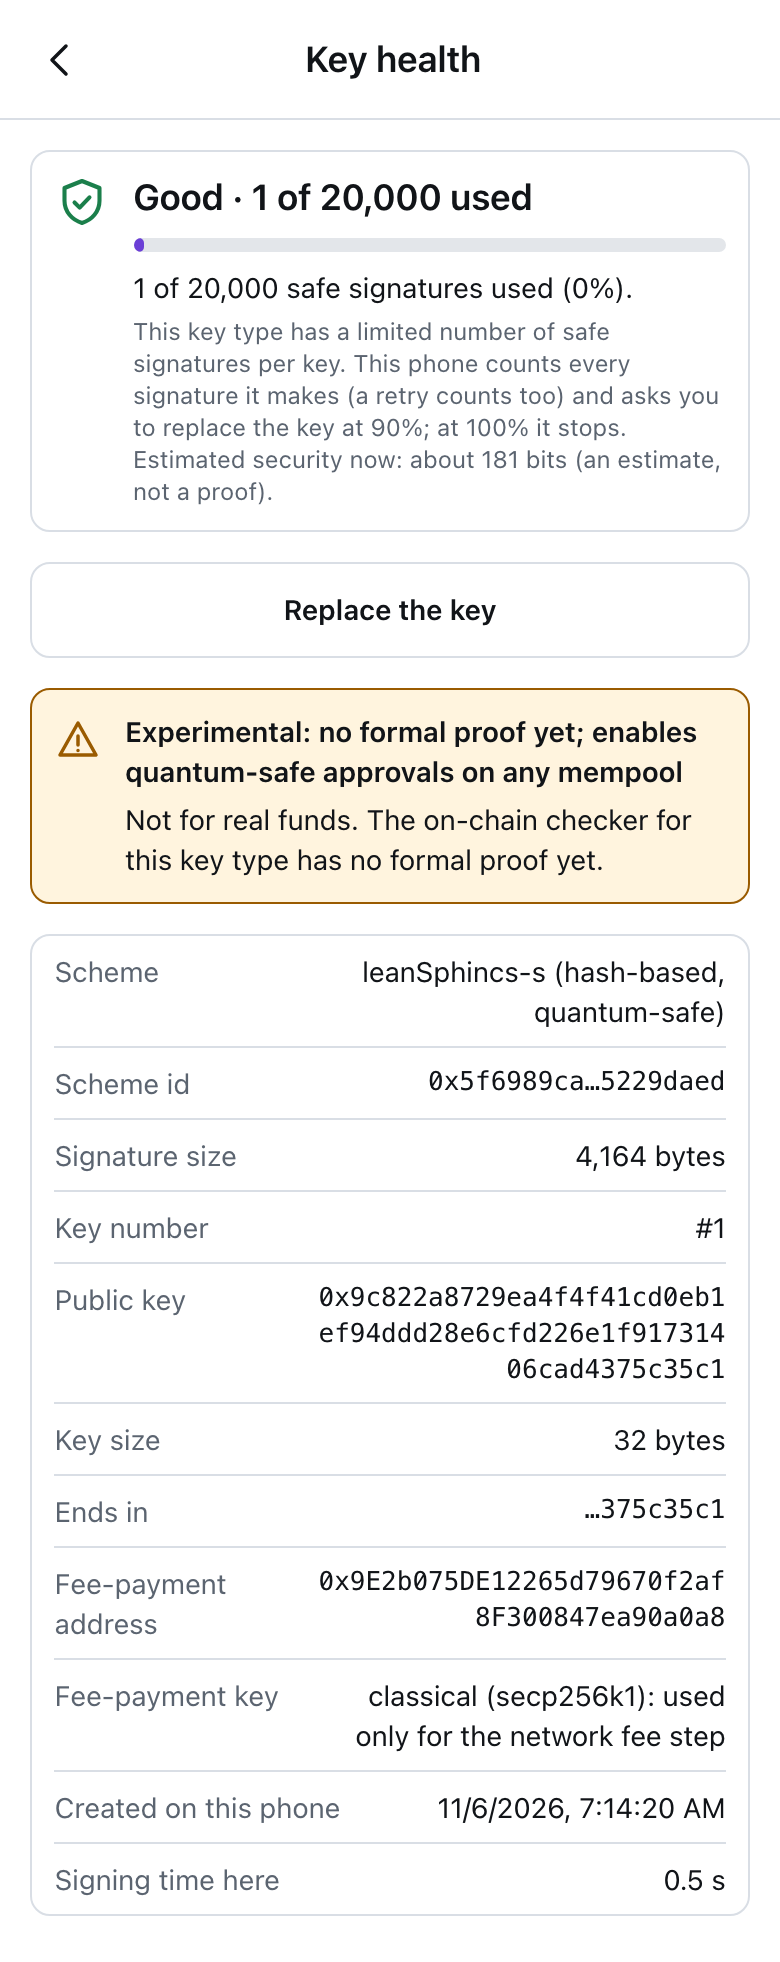
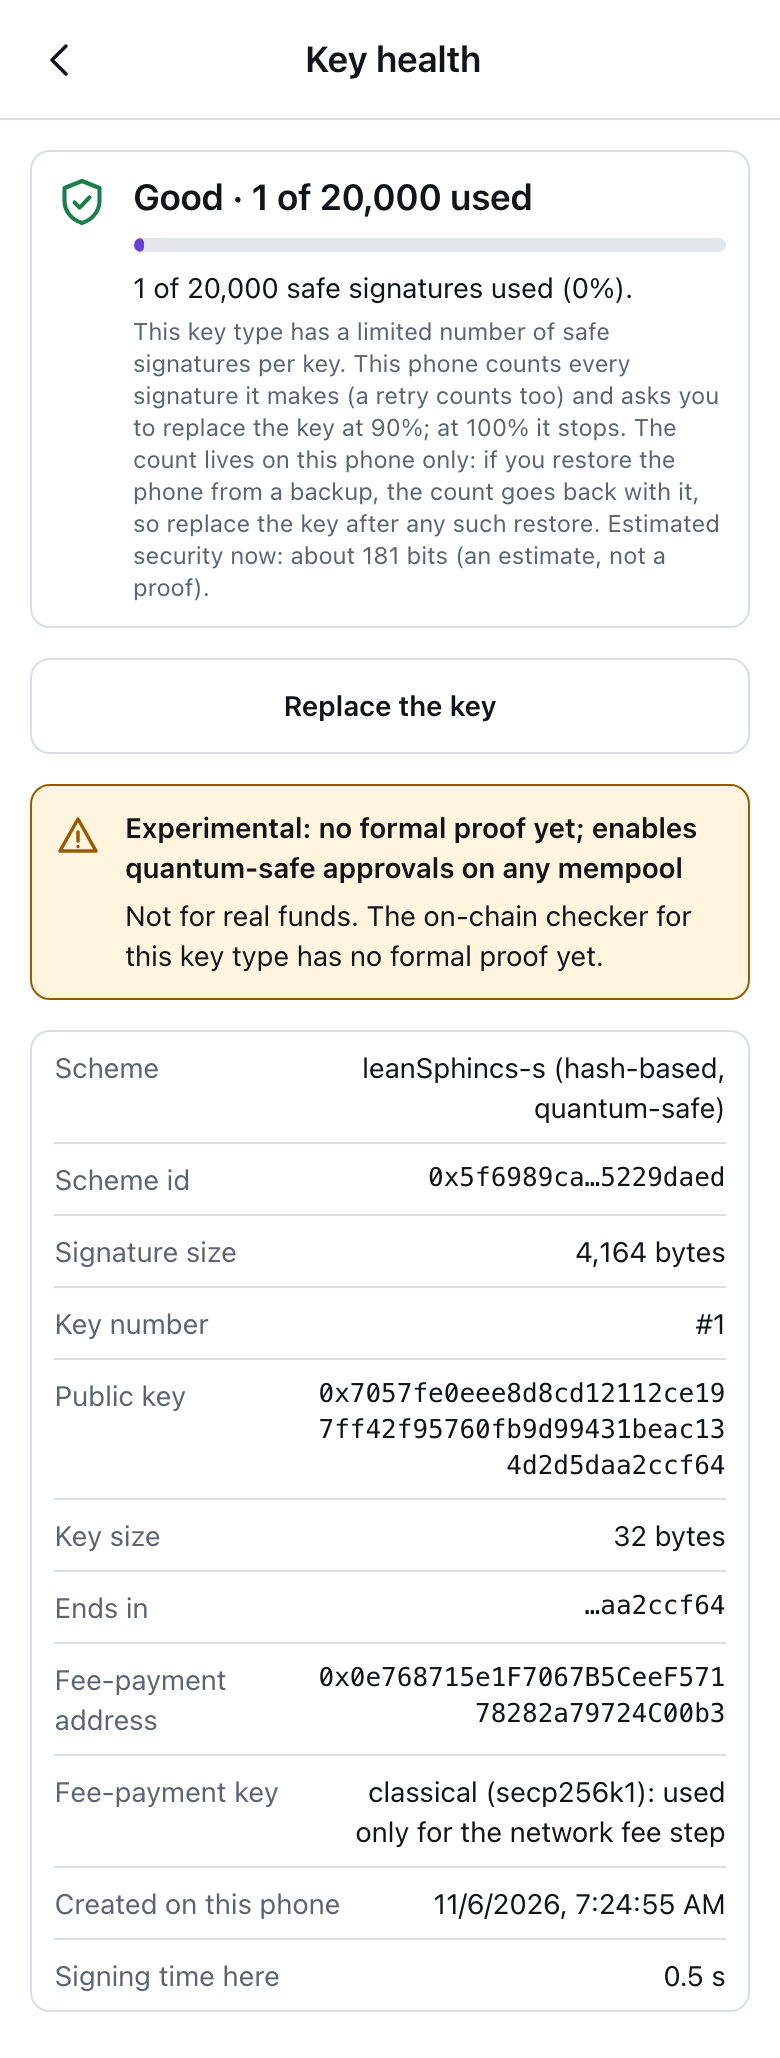
fix(companion): review follow-ups: rotation switch notice, honest update and counter copy, e2e needle
- Approve sheet announces, before the passphrase, that a request for the prepared key #n+1 switches
  this phone over and retires key #n (switch-notice; asserted in the restore e2e).
- Update sheet says what the SHA-256 check proves (a complete, unmixed download against the
  fingerprints the build carries) and what it cannot (a genuine build from a compromised origin).
- Key health and usage.ts state the counter's limit: a restore of the phone's storage from a backup
  rolls the sealed count back undetectably (soft budget; replace the key after such a restore).
- keys.ts: exact statement of what the hardened Recovery branch protects (the Vault's 0/0 is not
  hardened; no xpub is ever exported).
- e2e activity test: a bare "250" also matched the clear signMs/timestamps; use the log's phrases.

diff --git a/apps/companion/e2e/followups.e2e.ts b/apps/companion/e2e/followups.e2e.ts
@@ -131,7 +131,13 @@ test("leanSphincs-s restore: count unknown → approvals refused → replace the
   await page.goto("./");
   const built = H.leanFreeze(k2.pk, "0a1b2c3d-4e5f-4a6b-8c7d-8e9f0a1b2c3d");
   await pasteRequest(page, H.requestText(built.cbor));
-  await approveWith(page, H.PASSPHRASE);
+  await page.getByTestId("approve").click();
+  // The switch is announced before the passphrase is asked, not only after the signature.
+  await expect(page.getByTestId("switch-notice")).toContainText("new key #2");
+  await expect(page.getByTestId("switch-notice")).toContainText("key #1 will no longer approve");
+  await page.getByTestId("approve-pass").fill(H.PASSPHRASE);
+  await page.getByTestId("approve-sign").click();
+  await expect(page.getByTestId("signed-banner")).toBeVisible({ timeout: 60_000 });
   await expect(page.getByTestId("signed-banner")).toContainText("now uses your new Vault key");
   const r = await H.checkSignature(await page.getByTestId("ur-text").inputValue(), built, k2.pk);
   expect(r.witnessOk).toBe(true);
@@ -197,7 +203,8 @@ test("activity log: encrypted at rest, readable with the passphrase", async ({ p
         req.onerror = () => reject(req.error);
       }),
   );
-  for (const needle of ["USDC", "Alice", "daily limit", "250"]) expect(dump).not.toContain(needle);
+  // (Not a bare "250": timestamps and the measured signing time are stored in clear and can contain it.)
+  for (const needle of ["USDC", "Alice", "daily limit", "Send 250", "250 USDC"]) expect(dump).not.toContain(needle);
 
   await page.getByTestId("nav-settings").click();
   await expect(page.getByTestId("activity")).toContainText("Activity on this phone (2)");

diff --git a/apps/companion/src/core/keys.ts b/apps/companion/src/core/keys.ts
@@ -11,9 +11,11 @@ import { getAddress, type Address, type Hex } from "viem";
  *    and role, in WASM).
  *  - Path-B payer (fee-payment) key: BIP-32 `m/44'/60'/8141'/0/0` of the same seed (a separate branch).
  *  - Recovery payer key (the Recovery signer's Path-B fee key, so a Recovery key can act on the public mempool):
- *    BIP-32 `m/44'/60'/8141'/1'/0'` of the *Recovery* seed. A different, hardened branch from the Vault's, so the two
- *    fee keys are independent even if one mnemonic were (wrongly) used for both roles, and a leaked child key plus an
- *    xpub of the parent can never reach the other role's branch.
+ *    BIP-32 `m/44'/60'/8141'/1'/0'` of the *Recovery* seed: different words, and a different branch. The branch is
+ *    hardened so that, even if one mnemonic were (wrongly) used for both roles, a leaked Recovery fee key plus any
+ *    xpub can never reach the Vault's branch. (The Vault's `0/0` is not hardened: a leaked Vault fee key plus the
+ *    xpubs of its parents would recover `m/44'/60'/8141'` and with it every branch, so no xpub is ever exported from
+ *    the worker.)
  * Only the signing worker calls the derivations that produce secrets; the UI thread handles words only while the user
  * reads or types them.
  */

diff --git a/apps/companion/src/screens/Review.tsx b/apps/companion/src/screens/Review.tsx
@@ -459,6 +459,7 @@ function ApproveSheet({
                 Replace the key
               </Button>
             )}
+            {gate.ok && <SwitchNotice review={review} />}
             {gate.ok && <BudgetNotice review={review} />}
             {needsPass && gate.ok && (
               <PassphraseField
@@ -498,6 +499,24 @@ function ApproveSheet({
         )}
       </div>
     </Sheet>
+  );
+}
+
+/**
+ * Key rotation: the request names the prepared replacement key. Approving it is also the moment this phone switches
+ * over and retires the current key, so the user is told before, not only after.
+ */
+function SwitchNotice({ review }: { review: Review }) {
+  const store = useStore();
+  const v = store.vault;
+  if (!v?.next || review.kind !== "frameTx" || review.signingKey !== "next") return null;
+  const k = keyState(v);
+  return (
+    <p className="flex items-start gap-2 t-small text-limit" data-testid="switch-notice">
+      <WarnIcon size={16} className="mt-0.5 shrink-0" />
+      This request is for your new key #{k.next?.keyNumber}. Approving it switches this phone to the new key for good;
+      key #{k.keyNumber} will no longer approve anything. Only do this once the browser has switched to the new key.
+    </p>
   );
 }
 

diff --git a/apps/companion/src/core/usage.ts b/apps/companion/src/core/usage.ts
@@ -14,6 +14,11 @@ import type { SealedBlob } from "./vaultCrypto.js";
  *    between keys without the passphrase. `hint` is a plaintext copy for the screens that run before the passphrase
  *    is entered; the worker enforces `max(sealed, hint)`, so lowering the hint achieves nothing.
  *  - `null` = unknown: a key restored from the words may have signed elsewhere. Unknown counts as "exceeded".
+ *  - What the sealing cannot do: it binds the count to the key and the passphrase, not to time. Restoring this phone's
+ *    storage from a backup (an OS backup, a copied browser profile) brings back an older, lower, perfectly valid
+ *    sealed count, and nothing on the phone can tell. The budget is soft (pq-signer README: security degrades
+ *    gradually past it, no one-time-key cliff), so an undercount by a backup's worth of signatures weakens the key a
+ *    little rather than breaking it; Key health says to replace the key after any restore from a backup.
  */
 
 export interface UsageRecord {

diff --git a/apps/companion/src/ui/update.tsx b/apps/companion/src/ui/update.tsx
@@ -153,8 +153,10 @@ export function UpdateBanner() {
               </div>
             </dl>
             <p className="t-body">
-              Every file of the new build was checked against its build id before it was offered. If you can, compare
-              the new build id with the one LEAKED publishes for this release before you update.
+              Every file of the new build was checked against the fingerprints that build carries, so the download is
+              complete and not a mix of builds. That check can't tell a genuine build from one served by a compromised
+              site: if you can, compare the new build id with the one LEAKED publishes for this release before you
+              update.
             </p>
             <p className="t-small text-muted">
               Your Vault, address book and history stay on this phone. Don't update in the middle of an approval.

diff --git a/apps/companion/src/screens/Manage.tsx b/apps/companion/src/screens/Manage.tsx
@@ -222,7 +222,9 @@ export function Health() {
                 </p>
                 <p className="mt-1 t-small text-muted">
                   This key type has a limited number of safe signatures per key. This phone counts every signature it
-                  makes (a retry counts too) and asks you to replace the key at 90%; at 100% it stops.
+                  makes (a retry counts too) and asks you to replace the key at 90%; at 100% it stops. The count lives
+                  on this phone only: if you restore the phone from a backup, the count goes back with it, so replace
+                  the key after any such restore.
                   {st.estimatedSecurityBits !== undefined &&
                     Number.isFinite(st.estimatedSecurityBits) &&
                     !st.unknown &&
